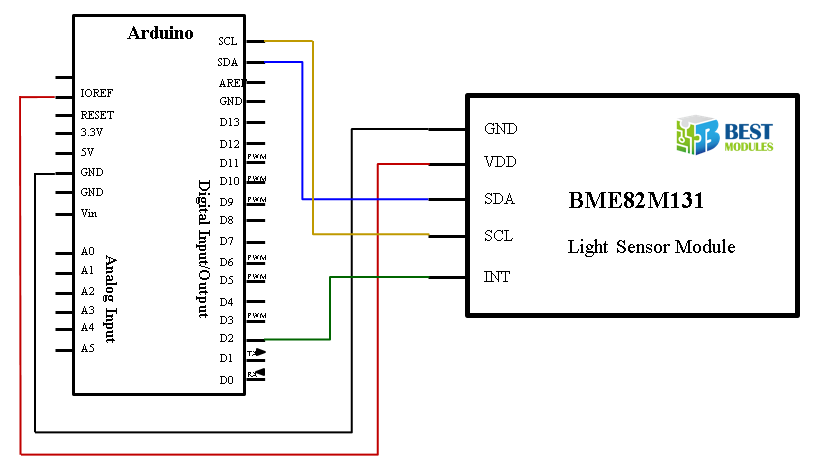
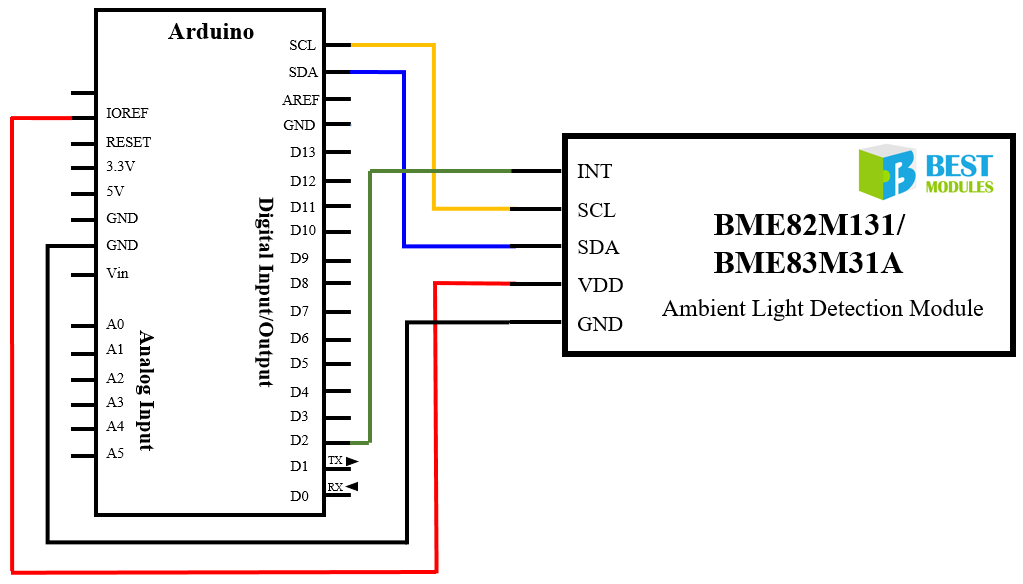
Add files via upload

Changed region(s): [[0.0, 0.0, 1.0, 1.0]]

diff --git a/src/BME82M131.cpp b/src/BME82M131.cpp
@@ -2,7 +2,7 @@
 File:        BME82M131.cpp
 Author:      BEST MODULES CORP.
 Description: I2C communication with the BME82M131 and obtain the corresponding value  
-Version:     V1.0.2 --2024-07-15
+Version:     V1.0.3 --2025-05-29
 ******************************************************************/
 #include "BME82M131.h"
 /*********************************************************************************

diff --git a/src/BME82M131.h b/src/BME82M131.h
@@ -2,7 +2,7 @@
 File:             BME82M131.h
 Author:           BEST MODULES CORP.
 Description:      Define classes and required variables
-Version:          V1.0.2 --2024-07-15
+Version:          V1.0.3 --2025-05-29
 ******************************************************************/
 #ifndef _H
 #define _H

diff --git a/README.md b/README.md
@@ -6,7 +6,7 @@
 BME82M131
 ===========================================================
 
-The Best Modules BME82M131 is an ambient light detection module, which uses the I2C communication method. This document describes the Arduino Lib function of the BME82M131 and how to install the Arduino Lib. The example demonstrates how to obtain the ambient light intensity.
+The BESTMODULES BME82M131 is an ambient light detection module, which uses the I2C communication method. This document describes the Arduino Lib function of the BME82M131 and how to install the Arduino Lib. The example demonstrates how to obtain the ambient light intensity.
 
 This library can be installed via the Arduino Library manager. Search for **BME82M131**. 
 
@@ -30,6 +30,8 @@ Version History
 &emsp;&emsp;- Initial public release.
 * **V1.0.2**  
 &emsp;&emsp;- Change variable type u16 to uint16_t.  
+* **V1.0.3**  
+&emsp;&emsp;- Add applicable models: BME82M131A;
 
 License Information
 -------------------
